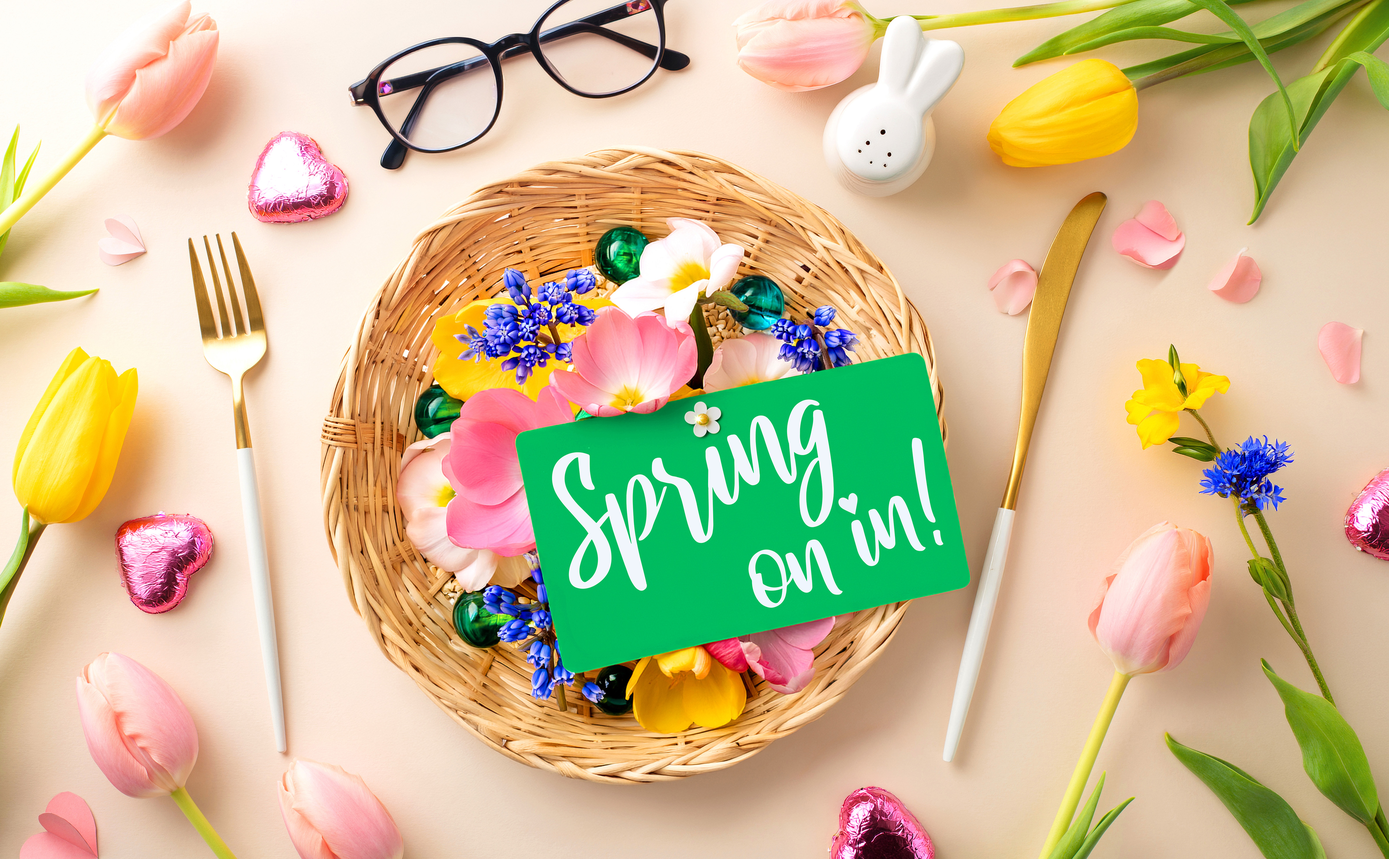
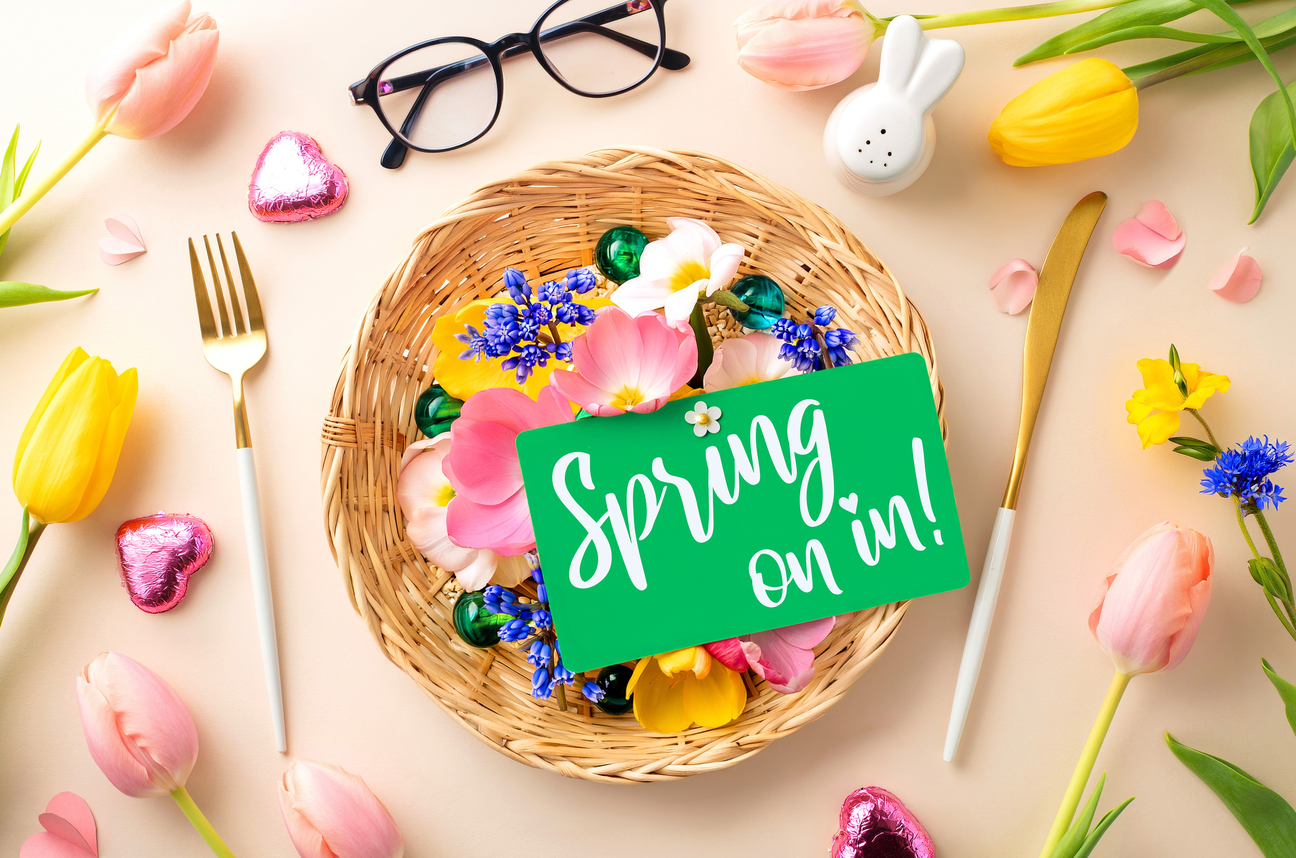
Finalized images

diff --git a/css/style.css b/css/style.css
@@ -1,11 +1,12 @@
 @charset "utf-8";
 /* CSS Document */
 
+/* ---------------- CTA BUTTON ---------------- */
 .cta-button {
   background-color: #dff3e6;
   color: #000;
   font-weight: 600;
-  padding: 12px 28px;
+  padding: 6px 14px;
   border-radius: 30px;
   text-decoration: none;
   display: inline-block;
@@ -16,6 +17,7 @@
   background-color: #bfe8cf;
 }
 
+/* ---------------- GLOBAL ---------------- */
 body {
   font-family: Arial, sans-serif;
   margin: 0;
@@ -28,23 +30,22 @@ h2 {
 }
 
 .centered-image {
-  display: block;        /* allows margin auto to work */
-  margin: 0 auto;        /* centers the image */
-  max-width: 90%;        /* adds left/right margin visually */
-  height: auto;          /* keeps proportions */
+  display: block;
+  margin: 0 auto;
+  max-width: 90%;
+  height: auto;
 }
 
-/* Base form layout */
+/* ---------------- FORM ---------------- */
 .open-house-form {
-  max-width: 600px;      /* keeps it centered and readable */
-  margin: 40px auto;     /* centers the form on the page */
+  max-width: 600px;
+  margin: 40px auto;
   padding: 20px;
   background: #ffffff;
   border-radius: 12px;
   box-shadow: 0 4px 20px rgba(0,0,0,0.08);
 }
 
-/* Labels */
 .open-house-form label {
   display: block;
   margin-bottom: 6px;
@@ -52,7 +53,6 @@ h2 {
   color: #333;
 }
 
-/* Inputs + Select */
 .open-house-form input,
 .open-house-form select {
   width: 100%;
@@ -64,7 +64,6 @@ h2 {
   box-sizing: border-box;
 }
 
-/* Checkbox alignment */
 .open-house-form .checkbox {
   display: flex;
   align-items: flex-start;
@@ -77,7 +76,6 @@ h2 {
   margin-top: 4px;
 }
 
-/* Submit button */
 .open-house-form button {
   width: 100%;
   padding: 14px;
@@ -87,7 +85,6 @@ h2 {
   cursor: pointer;
 }
 
-/* Responsive tweaks */
 @media (max-width: 480px) {
   .open-house-form {
     padding: 16px;
@@ -100,101 +97,92 @@ h2 {
   }
 }
 
-/* Dropdown container */
+/* ---------------- DROPDOWN ---------------- */
 .dropdown {
   position: relative;
 }
 
-/* Dropdown menu hidden by default */
 .dropdown-menu {
   opacity: 0;
   visibility: hidden;
   transition: all 0.3s ease;
   position: absolute;
   top: 100%;
-  left: 50%;
-  transform: translateX(-50%) translateY(-10px);
+  transform: translateY(-10px);
   background-color: #fff;
   border-radius: 6px;
   box-shadow: 0 4px 12px rgba(0,0,0,0.1);
   list-style: none;
-  padding: 10px 0;
+  padding: 6px 0;
   margin: 0;
   min-width: 180px;
   z-index: 1001;
+flex-direction: column;
 }
 
-
-
 .dropdown-menu li a {
-  display: block;
-  padding: 10px 20px;
+  display: flex;
+  align-items: center;
+  justify-content: center;
   color: #00a86b;
   text-decoration: none;
   font-weight: 500;
 }
 
+
 .dropdown-menu li a:hover {
   background-color: #dff3e6;
 }
 
-/* Slide down on hover */
 .dropdown:hover .dropdown-menu {
   opacity: 1;
   visibility: visible;
-  transform: translateY(0);
+  transform: none;
 }
 
-.nav-menu .dropdown-menu {
-  display: block !important;
-}
-
-/* Responsive tweak */
-@media (max-width: 768px) {
-  .dropdown-menu {
-    position: static;
-    box-shadow: none;
-    transform: none;
-    opacity: 0;
-    visibility: hidden;
-  }
-
-  .dropdown:hover .dropdown-menu {
-    opacity: 1;
-    visibility: visible;
-    transform: translateY(0);
-  }
+/* Dropdown menu items stacked vertically */
+.dropdown-menu {
+  display: block; /* replaces flex or inline layout */
 }
 
 
-/* Header container */
+/* ---------------- HEADER ---------------- */
 .site-header {
   width: 100%;
-  background-color: rgba(255, 255, 255, 0.9); /* subtle opaque background */
-  position: fixed; /* stays above all content */
+  background-color: rgba(255, 255, 255, 0.9);
+  position: fixed;
   top: 0;
   left: 0;
   z-index: 1000;
   box-shadow: 0 2px 10px rgba(0,0,0,0.1);
 }
 
-/* Layout */
+@media (max-width: 768px) {
+  .site-header {
+    position: static;
+    box-shadow: none;
+  }
+}
+
 .header-container {
   display: flex;
   justify-content: space-between;
   align-items: center;
   max-width: 1200px;
-  margin: 0 auto;
-  padding: 10px 40px;
+  margin: auto;
+  padding: 10px 20px;
 }
 
-/* Logo */
 .logo img {
   height: 60px;
   width: auto;
 }
 
-/* Navigation */
+.nav-menu {
+  display: flex;
+  align-items: center;
+}
+
 .nav-menu ul {
   list-style: none;
   display: flex;
@@ -202,12 +190,6 @@ h2 {
   margin: 0;
   padding: 0;
 }
-
-.nav-menu .dropdown-menu {
-  display: block !important;
-  white-space: nowrap; /* prevents text wrapping */
-}
-
 
 .nav-menu a {
   text-decoration: none;
@@ -220,7 +202,6 @@ h2 {
   color: #007a50;
 }
 
-/* Responsive */
 @media (max-width: 768px) {
   .header-container {
     flex-direction: column;
@@ -239,37 +220,36 @@ h2 {
 }
 
 
-/* HERO WRAPPER */
+/* ---------------- HERO ---------------- */
 .hero {
   position: relative;
   width: 100%;
+  margin-bottom: 40px; /* add space so text starts clearly below the image+overlay */
 }
 
-/* HERO IMAGE */
 .hero img {
   width: 100%;
   height: auto;
   display: block;
 }
 
-/* LEFT OPAQUE OVERLAY (DESKTOP) */
 .hero-overlay {
   position: absolute;
   top: 0;
   left: 0;
-  height: 100%;          /* full height of the image */
-  width: 25%;            /* one quarter of the image */
+  width: 25%;
+  height: 100%; /* matches the hero (image) height */
   background-color: rgba(0, 168, 107, 0.7);
   display: flex;
   flex-direction: column;
-  justify-content: center; /* vertical centering */
-  align-items: center;     /* horizontal centering */
+  justify-content: center;
+  align-items: center;
   text-align: center;
   color: #fff;
   padding: 20px;
 }
 
-/* TEXT INSIDE OVERLAY */
+
 .hero-text {
   max-width: 90%;
 }
@@ -283,7 +263,6 @@ h2 {
   font-size: 1.1rem;
 }
 
-/* MOBILE LAYOUT — OVERLAY MOVES BELOW IMAGE */
 @media (max-width: 768px) {
   .hero {
     display: flex;
@@ -299,7 +278,7 @@ h2 {
     width: 100%;
     height: auto;
     order: 2;
-    margin-top: 10px; /* optional spacing */
+    margin-top: 10px;
   }
 
   .hero-text h1 {
@@ -311,4 +290,21 @@ h2 {
   }
 }
 
+/* ---------------- NAV TEXT SHRINK ---------------- */
+@media (max-width: 900px) {
+  .nav-menu a {
+    font-size: 0.9rem;
+  }
+}
 
+@media (max-width: 700px) {
+  .nav-menu a {
+    font-size: 0.8rem;
+  }
+}
+
+@media (max-width: 500px) {
+  .nav-menu a {
+    font-size: 0.7rem;
+  }
+}

diff --git a/index.html b/index.html
@@ -23,7 +23,7 @@
       <ul>
         <li class="dropdown"><a href="#">Our Locations</a>
 <ul class="dropdown-menu">		  
-<li><a href="https://www.aspiralife.ca/our-locations">Find your Local Community</a></li>
+<li><a href="https://www.aspiralife.ca/our-locations" style="text-align: center">Find your Local Community</a></li>
 </ul>	
 		  </li>
         <li class="dropdown"><a href="#">Living Options</a>
@@ -53,8 +53,14 @@
 	<li><a href="#">Quality</a></li>
   </ul>
 </li>
-
-      </ul>
+<li>
+    <a class="cta-button" 
+       href="https://www.aspiralife.ca/our-locations/?_gl=1*1pu87kd*_gcl_au*MTQ1NDEyNzg0OC4xNzgwNDM1MDQz*_ga*MTM2MzQ0MjUzMy4xNzgwNDM1MDQy*_ga_80XBSXZYQK*czE3ODA0NTQ1NzkkbzMkZzEkdDE3ODA0NTQ2MTckajIyJGwwJGgw*_ga_0DWG99K33Y*czE3ODA0NTQ1NzkkbzMkZzEkdDE3ODA0NTQ2MTckajIyJGwwJGgw"
+       target="_blank">
+       Location Finder
+    </a>
+  </li>
+</ul>
     </nav>
   </div>
 </header>
